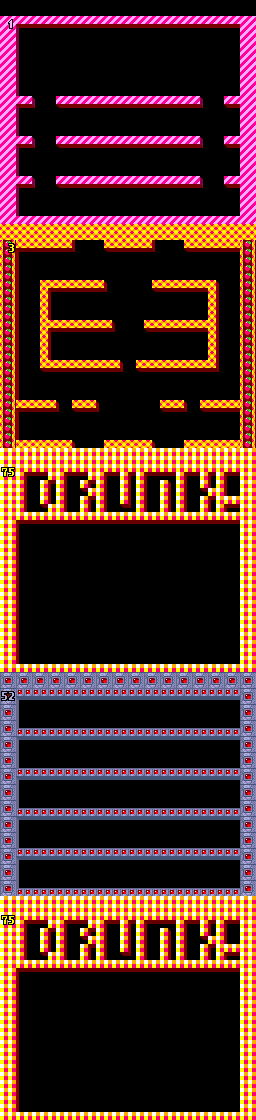
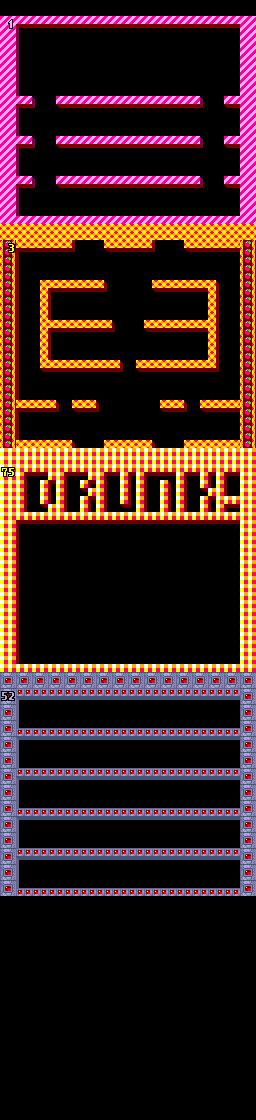
immune time and polish

Changed region(s): [[0.0, 0.7812, 1.0, 1.0]]

diff --git a/Code/BubbleBobble/src/Scene.cpp b/Code/BubbleBobble/src/Scene.cpp
@@ -207,40 +207,41 @@ AppStatus Scene::LoadLevel(int stage)
 	{
 		map = new int[size] {
 			    1,   3, 173, 173, 173, 173, 173, 173, 173, 173, 173, 173, 173, 173, 173,  2,
-				2,   5,   0,   0,   0,   0,   0,   0,   0,   0,   0,   0,   0,   0,   0,  2,
-				2,   5,   0,   0,   0,   0,   0,   0,   0,   0,   0,   0,   0,   0,   0,  2,
-				2,   5,   0,   0,   0,   0,   0,   0,   0,   0,   0,   0,   0,   0,   0,  2,
+				2,   5,   0,   0,   0,   0,   0,   0, 103,   0,   0,   0,   0,   0,   0,  2,
+				2,   5,   0,   0,   0,   0,   0,   0, 103,   0,   0,   0,   0,   0,   0,  2,
+				2,   5,   0,   0,   0,   0,   0,   0, 103,   0,   0,   0,   0,   0,   0,  2,
 				2,   5,   0,   0,  59,   0,   0,   0,   0,   0,   0,  59,   0,   0,   0,  2,
 				2,   3,   4,  12,  11,  11,  11,  11,  11,  11,  11,  11,  13,   0,  16,  2,
-				2,   5,   0,   0,   0,   0,   0,   0, 103,   0,   0,   0,   0,   0,   0,  2,
+				2,   5,   0,   0,   0,   0,   0,   0,   0,   0,   0,   0,   0,   0,   0,  2,
 				2,  43,  21,  17,  42,  42,  42,  42,  42,  42,  42,  42,  18,   0,  42,  2,
 				2,   9,   6,  10,  19,  19,  19,  19,  19,  19,  19,  19,  20,   0,   7,  2,
-				2,   5,   0,   0,  59,  0 ,   0,   0, 103,   0,   0,  59,   0,   0,   0,  2,
+				2,   5,   0,   0,  59,  0 ,   0,   0,   0,   0,   0,  59,   0,   0,   0,  2,
 				2,   3,   4,  12,  11,  11,  11,  11,  11,  11,  11,  11,  13,   0,  16,  2,
 				2,   5, 100,   0,   0,   0,   0,   0,   0,   0,   0,   0,   0, 106,   0,  2,
 				2,  43,  42,  42,  42,  42,  42,  42,  42,  42,  42,  42,  42,  42,  42,  2
 			};
 		player->InitScore();
-
+		numEnemies = 3;
 
 	}
 	else if (stage == 2)
 	{
 		map = new int[size] {
 			    150, 158, 171, 171, 153,   0, 172, 171, 171, 153,   0, 172, 171, 171, 171, 151,
-				151, 162,   0,   0,   0,   0,   0,   0,   0,   0,   0,   0,   0,   0,   0, 151,
+				151, 162,   0,   0,   0, 103,   0,   0,   0,   0, 103,   0,   0,   0,   0, 151,
 				151, 162, 156, 155, 155, 155, 157,   0,   0, 156, 155, 155, 155, 157,   0, 151,
 				151, 162, 160, 164, 166, 166, 163,   0,   0, 165, 166, 166, 166, 161,   0, 151,
-				151, 162, 160, 162,   0,  59,   0,   0,   0,   0,  59,   0,   0, 161,   0, 151,
+				151, 162, 160, 162, 103,  59,   0,   0,   0,   0,  59, 103,   0, 161,   0, 151,
 				151, 162, 160, 158, 152, 152, 152, 167,   0, 168, 152, 152, 152, 161,   0, 151,
 				151, 162, 160, 162,   0,   0, 102,   0,   0,   0,   0,   0,   0, 161,   0, 151,
 				151, 162, 160, 159, 155, 155, 155, 157, 156, 155, 155, 155, 155, 161,   0, 151,
 				151, 162, 165, 166, 166, 166, 166, 163, 165, 166, 166, 166, 166, 163,   0, 151,
 				151, 162,   0,  59,   0,   0,   0,   0,   0,   0,   0,   0,   0,  59,   0, 151,
 				151, 158, 152, 170, 154, 152, 169,   0,   0,   0, 168, 170, 154, 152, 152, 151,
-				151, 162, 100,   0,   0,   0,   0,   0,   0,   0,   0,   0, 103, 106,   0, 151,
+				151, 162, 100,   0,   0,   0,   0,   0,   0,   0,   0,   0,   0, 106,   0, 151,
 				151, 159, 155, 155, 157,   0, 156, 155, 155, 157,   0, 156, 155, 155, 155, 151
 			};
+		numEnemies = 4;
 	}
 	else if (stage == 3)
 	{
@@ -277,6 +278,8 @@ AppStatus Scene::LoadLevel(int stage)
 				196, 201, 100,   0,   0,   0,   0,   0,   0,   0,   0,   0,   0, 106,   0, 196,
 				196, 202, 203, 203, 203, 203, 203, 203, 203, 203, 203, 203, 203, 203, 203, 196
 			};
+
+		numEnemies = 7;
 	}
 	else
 	{
@@ -318,7 +321,7 @@ AppStatus Scene::LoadLevel(int stage)
 				hitbox = enemies->GetEnemyHitBox(pos, EnemyType::SLIME);
 				area = level->GetSweptAreaX(hitbox);
 				enemies->Add(pos, EnemyType::SLIME, area);
-				numEnemies++;
+				
 			}
 			else if (tile == Tile::DRUNK)
 			{
@@ -328,7 +331,7 @@ AppStatus Scene::LoadLevel(int stage)
 				hitbox = enemies->GetEnemyHitBox(pos, EnemyType::SLIME);
 				area = level->GetSweptAreaX(hitbox);
 				enemies->Add(pos, EnemyType::DRUNK, area);
-				numEnemies++;
+				if(stage != 4)numEnemies++;
 
 			}
 			else if (tile == Tile::DRUNKR)
@@ -615,7 +618,29 @@ void Scene::CheckCollisions()
 			{
 				player2_boxx = player2->GetHitbox();
 			}
+			AABB enemy_hitbox = enemy->GetHitbox();
+			if (player_boxx.TestAABB(enemy_hitbox)) {
+				if (player->Ikilleable) {
+					Point posplayer = player->GetPos();
+					posplayer.y -= 16;
+					player->SetPos(posplayer);
+					player->SetDeathAnim();
+					player->toogleWasHit();
+					player->DecLiv();
 
+				}
+			}
+			if (player2_boxx.TestAABB(enemy_hitbox)) {
+				if (player2->Ikilleable) {
+					Point posplayer = player2->GetPos();
+					posplayer.y -= 16;
+					player2->SetPos(posplayer);
+					player2->SetDeathAnim();
+					player2->toogleWasHit();
+					player2->DecLiv();
+
+				}
+			}
 			AABB enemy_box;
 			enemy_box = enemy->GetHitArea();
 			if (!enemy->noSpawnMore)
@@ -634,16 +659,20 @@ void Scene::CheckCollisions()
 
 					enemy->isshooting = true;
 				}
-				if (enemy->isshooting && !enemy->noSpawnMore && eTimeBottle > GetRandomValue(5, 8) && (stage == 4 || stage == 3))
+				if (enemy->isshooting && !enemy->noSpawnMore && eTimeBottle > GetRandomValue(5, 8))
 				{
 					enemy->isshooting = false;
-					if (player->GetPos().y > 32 && (stage == 4)) {
+					if (player->GetPos().y > 32 && (stage == 4 || stage == 1 || stage == 2)) {
 
 						enemy->lerping = true;
 						
 					}
-					Projectile* proj = new Projectile(enemy->GetPos(), enemy->GetDir());
-					projectiles.push_back(proj);
+					if (stage == 4 || stage == 3)
+					{
+						Projectile* proj = new Projectile(enemy->GetPos(), enemy->GetDir());
+						projectiles.push_back(proj);
+					}
+					
 					eTimeBottle = 0;
 
 

diff --git a/Code/BubbleBobble/src/Slime.cpp b/Code/BubbleBobble/src/Slime.cpp
@@ -55,7 +55,11 @@ void Slime::MoveX()
 	box = GetHitbox();
 	if (look == Look::RIGHT && state != SlimeState::FALLING && map->TestCollisionGround(box, &pos.y))
 	{
-		pos.x += SLIME_SPEED;
+		
+			pos.x += SLIME_SPEED;
+
+		
+		
 		if (map->TestCollisionWallRight(box))
 		{
 			pos.x = prev_x;
@@ -73,7 +77,11 @@ void Slime::MoveX()
 	}
 	else if (look == Look::LEFT && state != SlimeState::FALLING && map->TestCollisionGround(box, &pos.y))
 	{
-		pos.x += -SLIME_SPEED;
+		
+			pos.x += -SLIME_SPEED;
+
+		
+		
 		if (map->TestCollisionWallLeft(box))
 		{
 			pos.x = prev_x;
@@ -87,6 +95,31 @@ void Slime::MoveX()
 
 		}
 	}
+	/*if (lerping && !hasAlreadyJumped)
+	{		
+		eTimeLerp += GetFrameTime();
+		if(eTimeLerp < .1){
+		
+			pos.y -= 2;
+		}
+		if (eTimeLerp > .6 && eTimeLerp < 2)
+		{
+
+			pos.y -= 1;
+			defusehitbox = true;
+		}
+		else if (eTimeLerp > 1.9)
+		{
+			hasAlreadyJumped = true;
+			defusehitbox = false;
+			lerping = false;
+			
+			eTimeLerp = 0;
+
+		}
+
+
+	}*/
 }
 EnemyType Slime::GetEnemyType() const
 {
@@ -113,7 +146,7 @@ void Slime::MoveY()
 	int prev_y = pos.y;
 
 
-	if (state != SlimeState::JUMPING)
+	if (state != SlimeState::JUMPING && !defusehitbox)
 	{
 		pos.y += 1;
 		

diff --git a/Code/BubbleBobble/src/Player.cpp b/Code/BubbleBobble/src/Player.cpp
@@ -51,12 +51,13 @@ void Player::HitProcedure()
 	eTimeHitted += GetFrameTime();
 	if (eTimeHitted >= immuneThreshold) {
 		SetPos({32, 192});
-		isGod = false;
-		wasHit = false;
-		eTimeHitted = 0;
 		STOP = false;
-
-		Ikilleable = true;
+		
+		wasHit = false;
+		eTimeImmune = 0;
+		
+		
+		
 	}
 }
 int Player::GetScore()
@@ -102,6 +103,7 @@ bool Player::IsMoving() const
 void Player::toogleWasHit()
 {
 	wasHit = true;
+	
 }
 void Player::Stop()
 {
@@ -222,6 +224,19 @@ void Player::Update()
 	if (wasHit == true)
 	{
 		HitProcedure();
+	}
+	else {
+		eTimeImmune += GetFrameTime();
+		if (eTimeImmune >= 1)
+		{
+			isGod = false;
+
+			eTimeHitted = 0;
+
+			Ikilleable = true;
+		}
+		
+
 	}
 
 	Warp();

diff --git a/Code/BubbleBobble/src/Player2.cpp b/Code/BubbleBobble/src/Player2.cpp
@@ -49,13 +49,14 @@ void Player2::HitProcedure()
 
 	eTimeHitted += GetFrameTime();
 	if (eTimeHitted >= immuneThreshold) {
-		SetPos({ 100, 192 });
-		isGod = false;
-		wasHit = false;
-		eTimeHitted = 0;
+		SetPos({ 32, 192 });
 		STOP = false;
 
-		Ikilleable = true;
+		wasHit = false;
+		eTimeImmune = 0;
+
+
+
 	}
 }
 int Player2::GetScore()
@@ -226,6 +227,19 @@ void Player2::Update()
 	if (wasHit == true)
 	{
 		HitProcedure();
+	}
+	else {
+		eTimeImmune += GetFrameTime();
+		if (eTimeImmune >= 1)
+		{
+			isGod = false;
+
+			eTimeHitted = 0;
+
+			Ikilleable = true;
+		}
+
+
 	}
 
 	Warp();

diff --git a/Code/BubbleBobble/src/Slime.h b/Code/BubbleBobble/src/Slime.h
@@ -46,6 +46,7 @@ public:
 
 private:
 	//Create the pattern behaviour
+	float eTimeLerp = 0;
 	void MoveX();
 	void SetAnimation(int id);
 	void MoveY();
@@ -53,7 +54,8 @@ private:
 	void Stop();
 	//Update looking direction according to the current step of the pattern
 	void UpdateLook(int anim_id);
-
+	bool defusehitbox = false;
+	bool hasAlreadyJumped = false;
 	int attack_delay;	//delay between attacks
 	SlimeState state;
 	TileMap* map;

diff --git a/Code/BubbleBobble/src/Player.h b/Code/BubbleBobble/src/Player.h
@@ -96,12 +96,12 @@ private:
 	bool initiallyLookingR = true;
 	bool initiallyLookingL = true;
 	int immuneThreshold = 2;
+	float eTimeImmune = 0;
 	State state;
 	Look look;
 	int jump_delay;
 	float cFrame = 0, eFrame = 0, maxFrame = 8;
 	int score;
 	TileMap *map;
-
 };
 

diff --git a/Code/BubbleBobble/src/Player2.h b/Code/BubbleBobble/src/Player2.h
@@ -96,6 +96,7 @@ private:
 	bool initiallyLookingR = true;
 	bool initiallyLookingL = true;
 	int immuneThreshold = 2;
+	float eTimeImmune = 0;
 	State2 state;
 	Look look;
 	int jump_delay;
